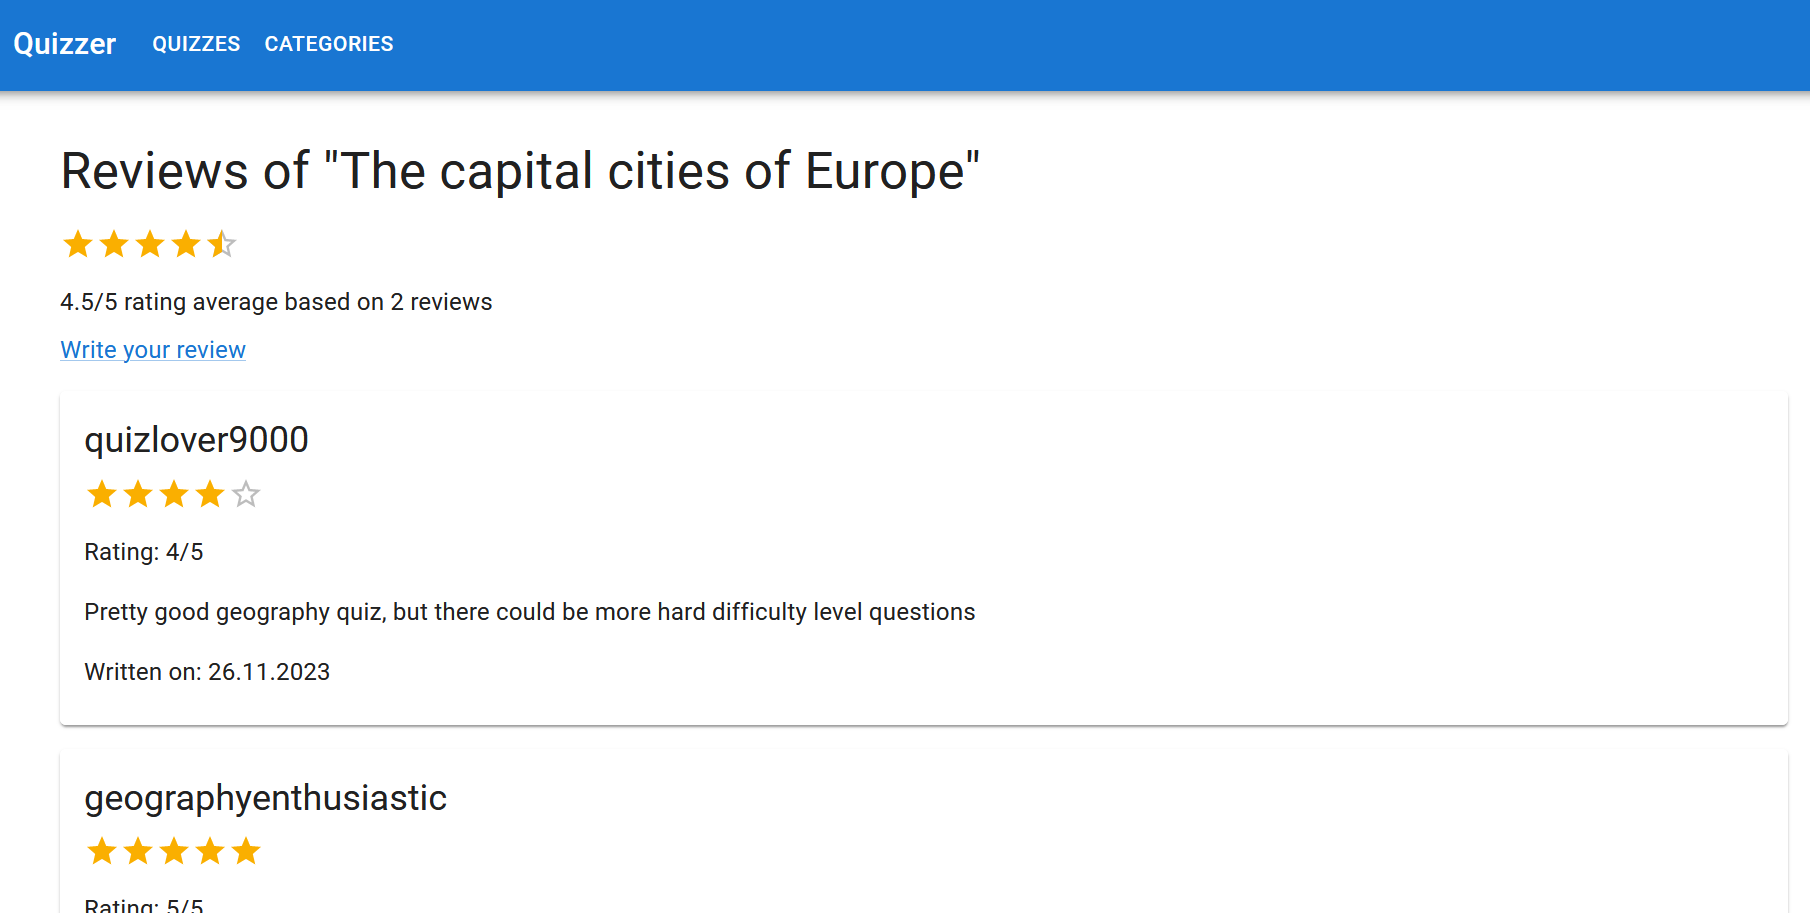
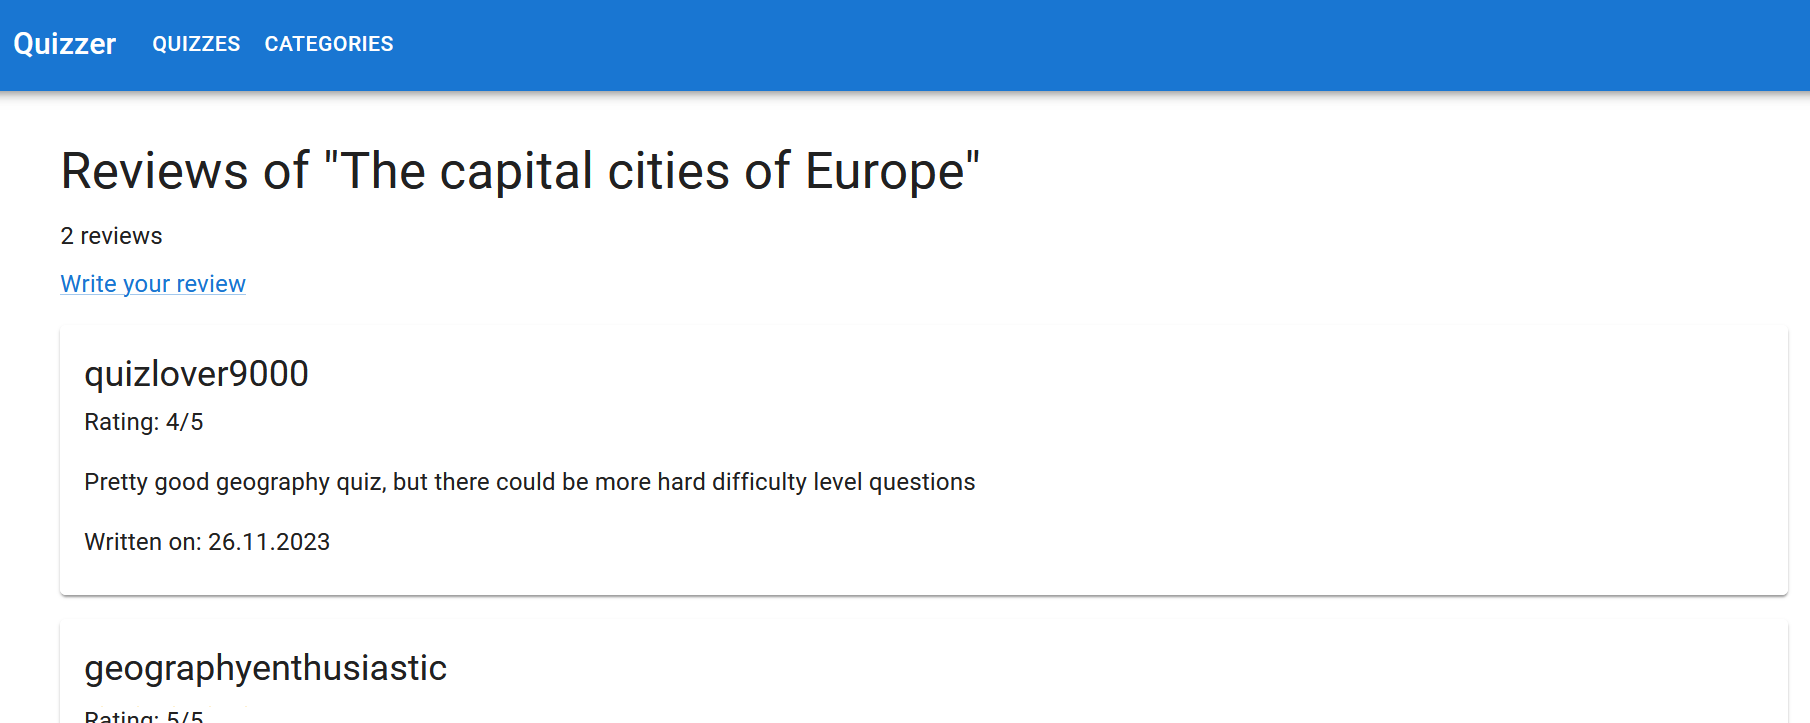
sprint 3

diff --git a/material/sprint-3.md b/material/sprint-3.md
@@ -56,7 +56,7 @@ The Sprint Review gave the Product Owner many new ideas on how to improve the ap
 
 > "We now have the basic features for managing and taking quizzes. What we still need is a way for the teachers to manage their personal quizzes.
 >
-> The teacher should be able to register with a username, email, bio and password in the teacher dashboard. The teacher should not be able to register with a username less than three characters long or a password less than eight characters long. The email should resemble a valid email address. The username or email should not be already taken by another registered user. The teacher can use the bio to describe themselves. The bio is optional. The user should also be required to retype the password to make sure that they didn't accidently mistype the password.
+> The teacher should be able to register with a username, email, bio and password in the teacher dashboard. The teacher should not be able to register without an email, with a username less than three characters long or a password less than eight characters long. The username or email should not be already taken by another registered user. The teacher can provide a bio to describe themselves. The bio is optional. The user should also be required to retype the password to make sure that they didn't accidently mistype the password.
 >
 > Once registered, the teacher should be able to sign in with their username and password. If the user is not signed in the navigation bar should have "Register" and "Sign in" links, which will take the user to the register or sign in page.
 >
@@ -66,7 +66,7 @@ The Sprint Review gave the Product Owner many new ideas on how to improve the ap
 >
 > The student should be able to share their thoughts about a quiz by writing a review. For this purpose there could be a separate review page. A review has a reviewer's nickname, a rating between 1 and 5 and a review text. The student should not be able to add a review with a nickname less than three characters long, a blank review text or without a rating between 1 and 5. The student should not be able to review a non-published quiz.
 >
-> The review page should list the added reviews from newest to oldest order. Each review should display the information submitted by the student and the date when the review was written. The review page should also display the review summary at the top of the page. The review summary should include the number of reviews the quiz has and the rating average. It should also be possible for the student to edit and delete reviews in the review page."
+> The review page should list the added reviews from newest to oldest order. Each review should display the information submitted by the student and the date when the review was written. The review page should also display the number of reviews the quiz has. It should also be possible for the student to edit and delete reviews in the review page."
 >
 > -- The Product Owner
 
@@ -572,7 +572,6 @@ While testing your application's REST API endpoints, refer to the examples above
 >
 > - `getQuestionsByQuizIdReturnsEmptyListWhenQuizDoesNotHaveQuestions`: save a quiz without questions to the database and send a request. Then, the response should have an empty list
 > - `getQuestionsByQuizIdReturnsListOfQuestionsWhenQuizHasQuestions`: save a quiz with a few questions to the database and send a request. Then, the response should have a list of the quiz's questions
-> - `getQuestionsByQuizIdReturnsAnswerOptionsOfQuestions`: save a quiz with a few questions and answer options to the database and send a request. Then, the response should include the list of answer options of the question
 > - `getQuestionsByQuizIdReturnsErrorWhenQuizDoesNotExist`: send a request without saving a quiz to the database. Then, the response should have an appropriate HTTP status
 > - An appropriate test methods for testing that the difficulty level filtering works
 
